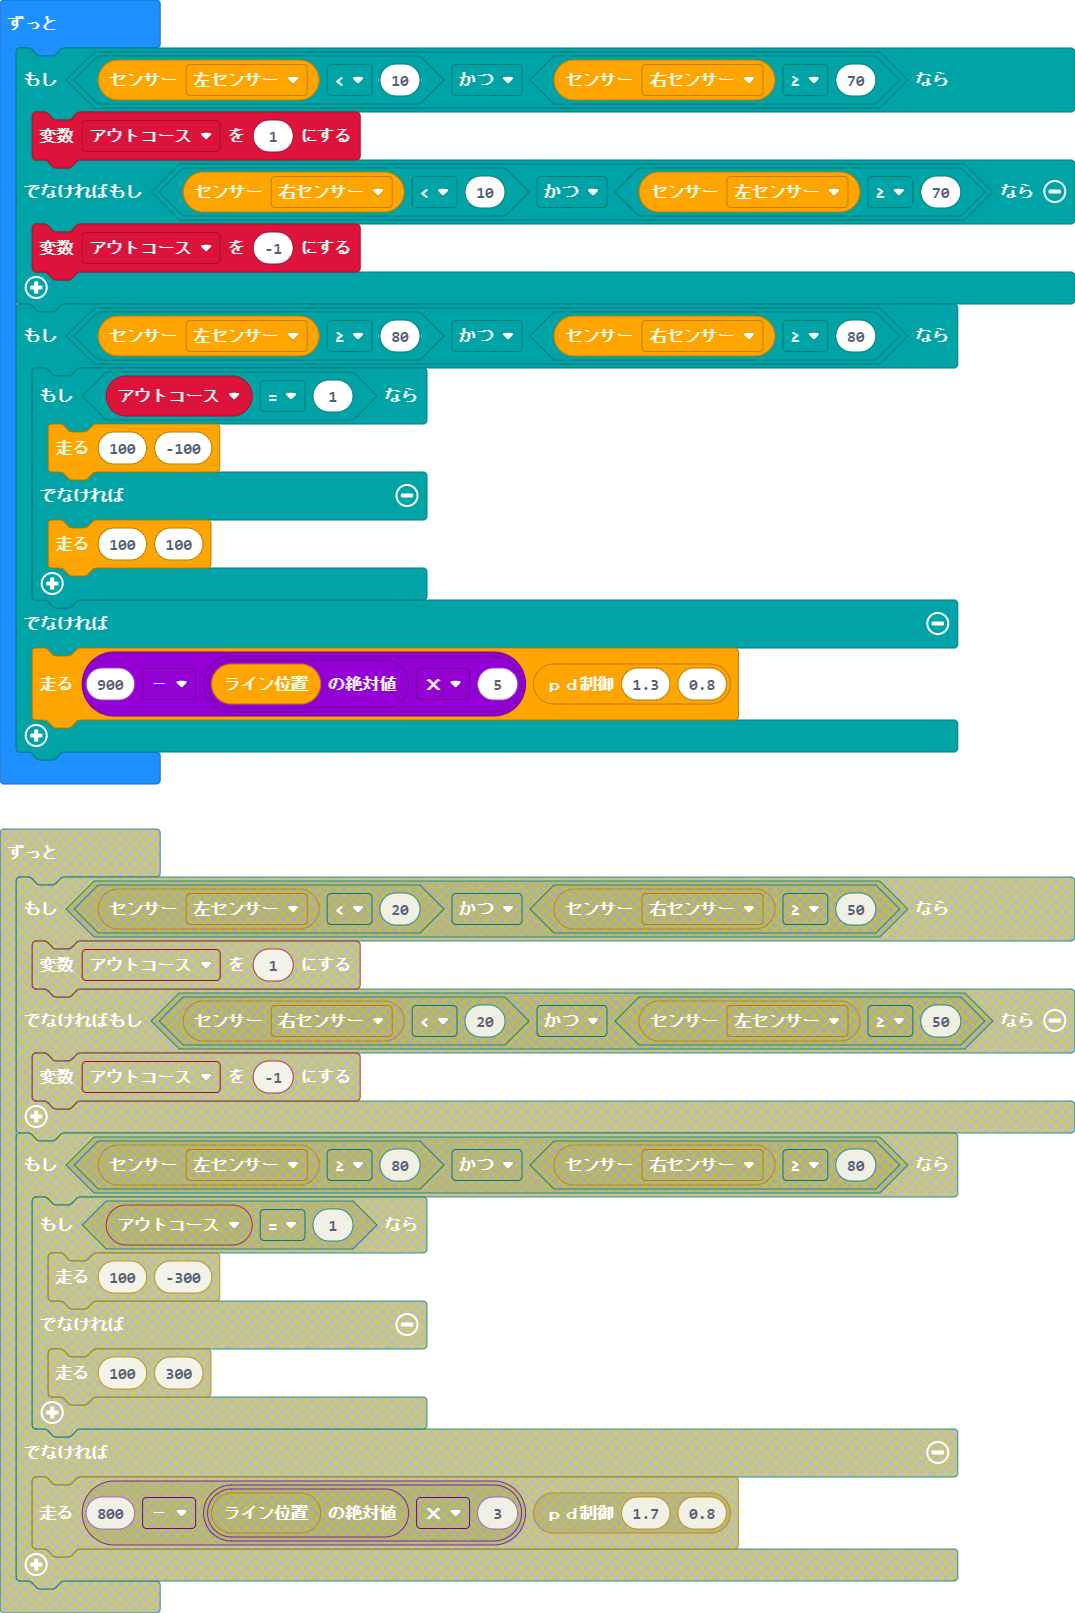
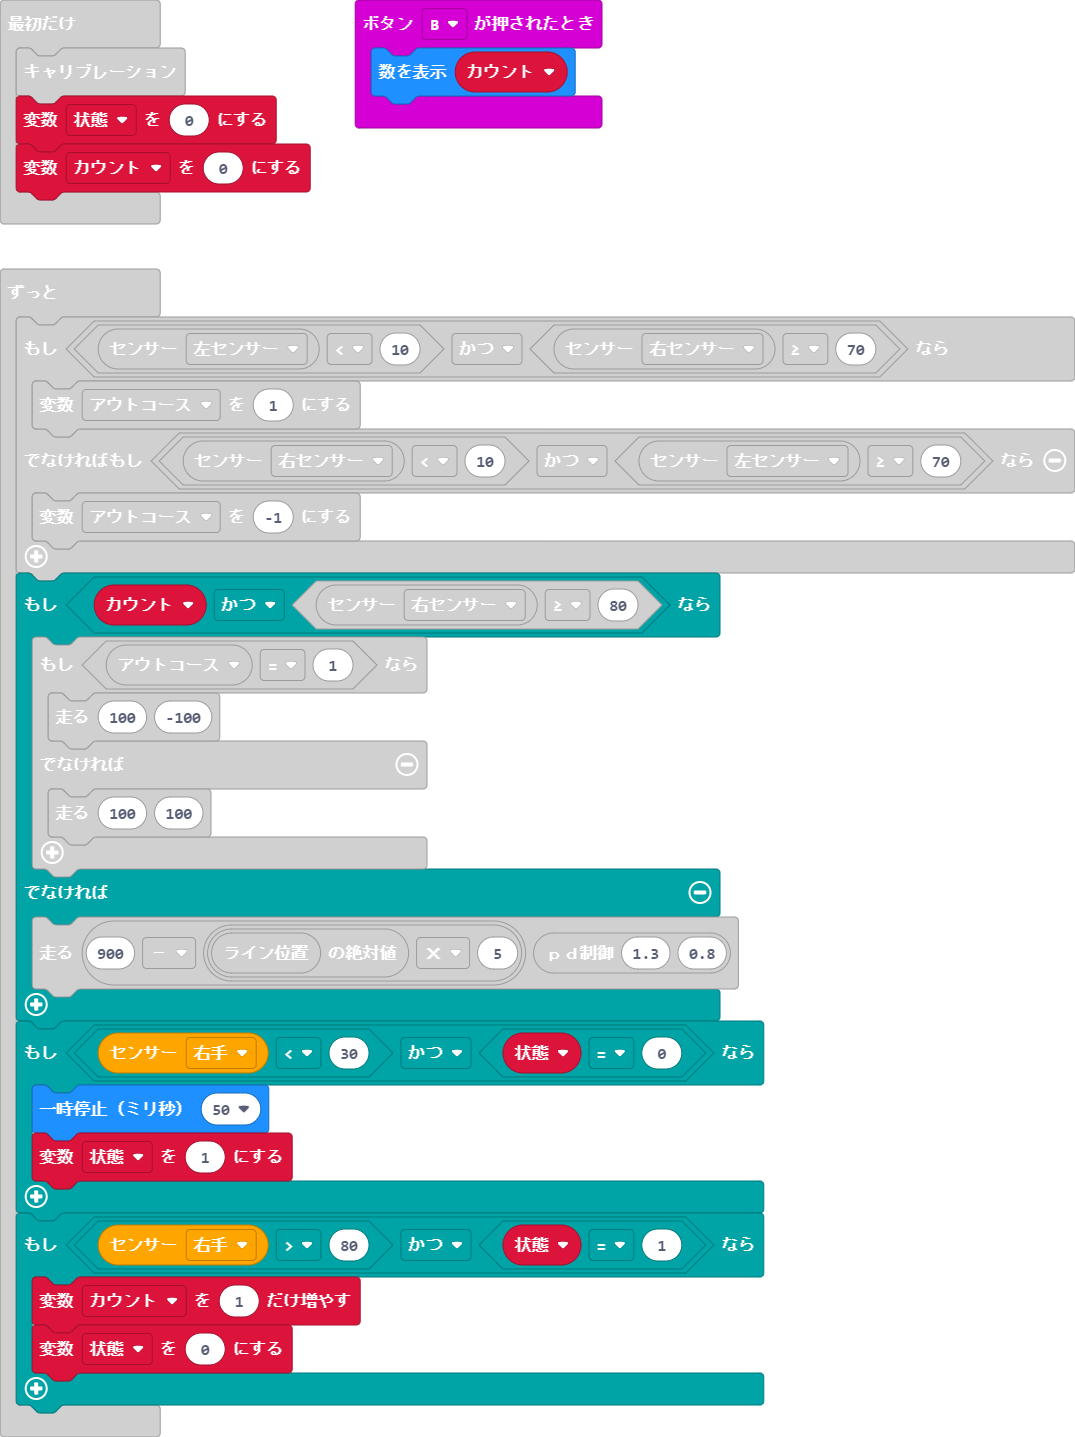
右手でカウントできるようにした

diff --git a/main.ts b/main.ts
@@ -1,12 +1,18 @@
+input.onButtonPressed(Button.B, function () {
+    basic.showNumber(カウント)
+})
 let アウトコース = 0
+let カウント = 0
 custom.キャリブレーション()
+let 状態 = 0
+カウント = 0
 basic.forever(function () {
     if (custom.センサー(sensor.sensor_L) < 10 && custom.センサー(sensor.sensor_R) >= 70) {
         アウトコース = 1
     } else if (custom.センサー(sensor.sensor_R) < 10 && custom.センサー(sensor.sensor_L) >= 70) {
         アウトコース = -1
     }
-    if (custom.センサー(sensor.sensor_L) >= 80 && custom.センサー(sensor.sensor_R) >= 80) {
+    if (カウント && custom.センサー(sensor.sensor_R) >= 80) {
         if (アウトコース == 1) {
             custom.走る(100, -100)
         } else {
@@ -14,5 +20,13 @@ basic.forever(function () {
         }
     } else {
         custom.走る(900 - Math.abs(custom.ライン位置()) * 5, custom.ＰＤ制御(1.3, 0.8))
+    }
+    if (custom.センサー(sensor.sensor_armR) < 30 && 状態 == 0) {
+        basic.pause(50)
+        状態 = 1
+    }
+    if (custom.センサー(sensor.sensor_armR) > 80 && 状態 == 1) {
+        カウント += 1
+        状態 = 0
     }
 })

diff --git a/custom.ts b/custom.ts
@@ -174,8 +174,10 @@ namespace custom {
             case sensor.sensor_R:
                 return Math.map(pins.analogReadPin(AnalogPin.P0), Right_Senser_White, Right_Senser_Black, 0, 100)
                 break;
+            case sensor.sensor_armR:
+                return Math.map(pins.analogReadPin(AnalogPin.P2), Right_Senser_White_arm, Right_Senser_Black_arm, 0, 100)
+                break;
         }
-
     }
     //% block
     export function ＰＤ制御(kp: number, kd: number): number {
